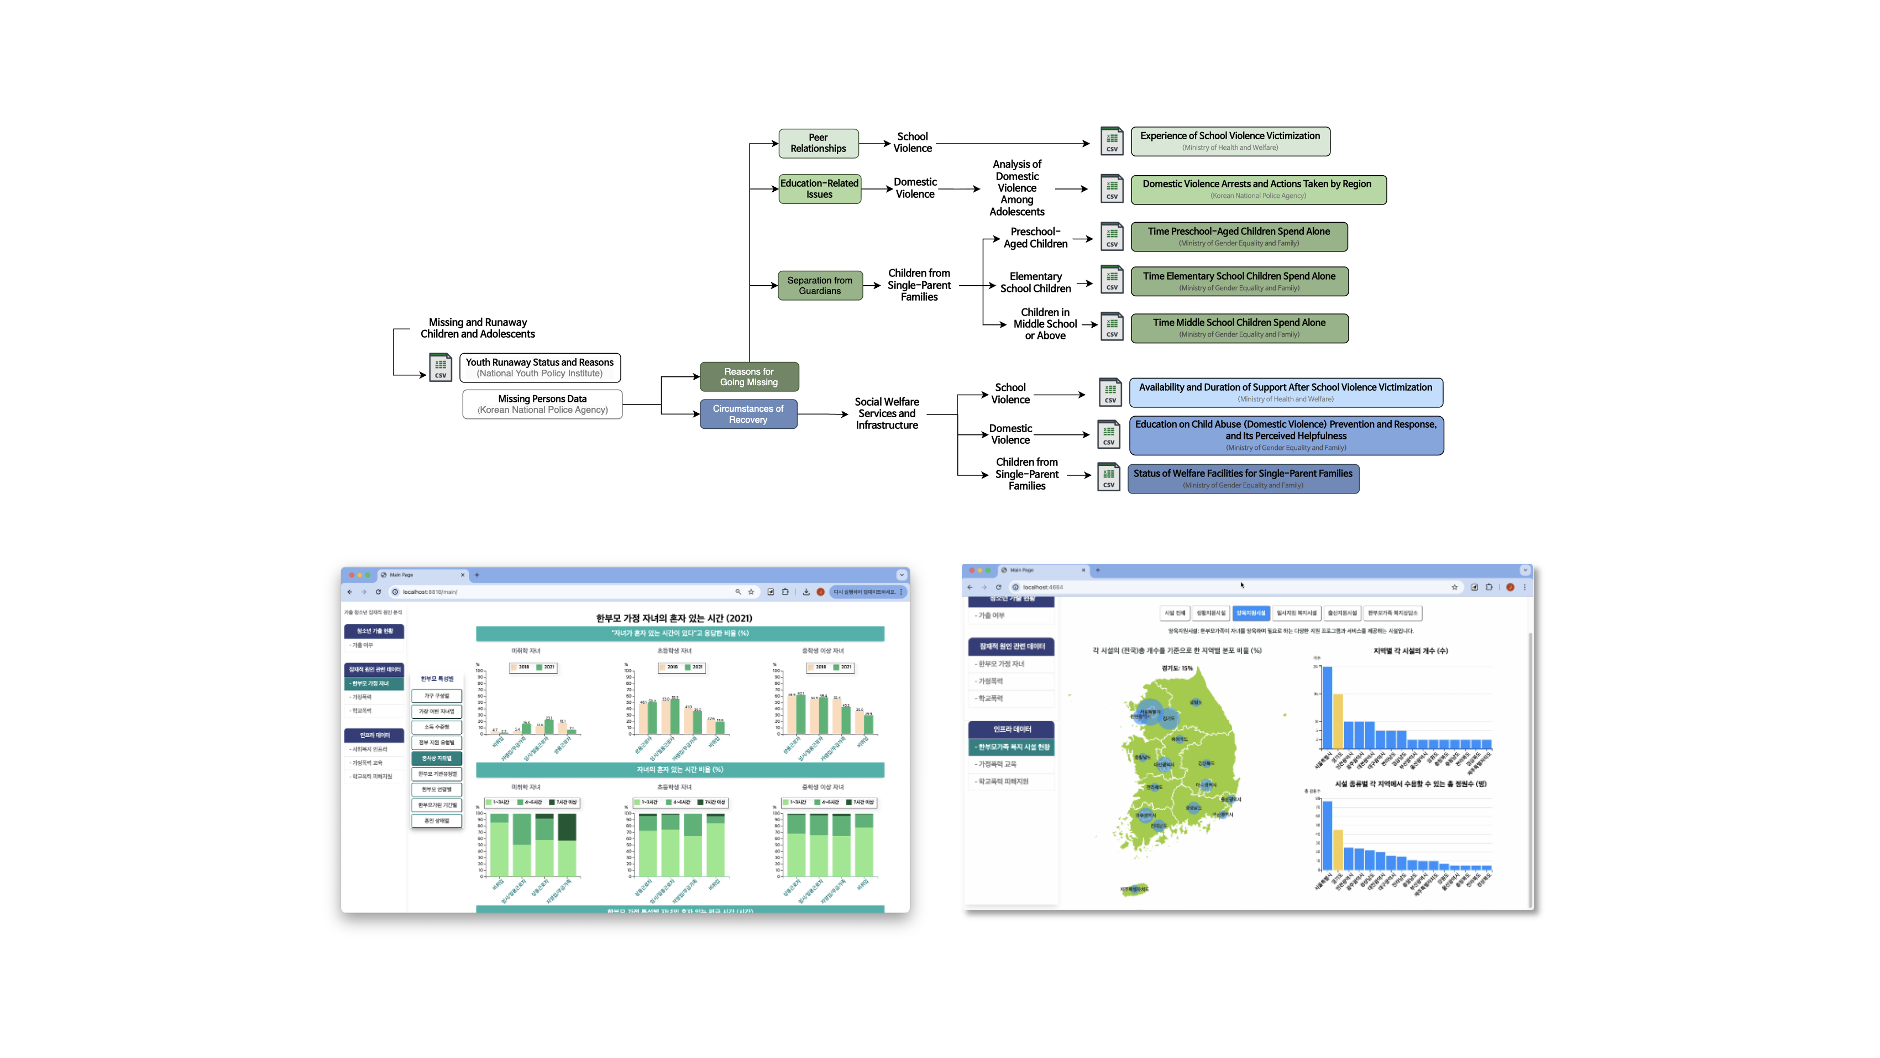
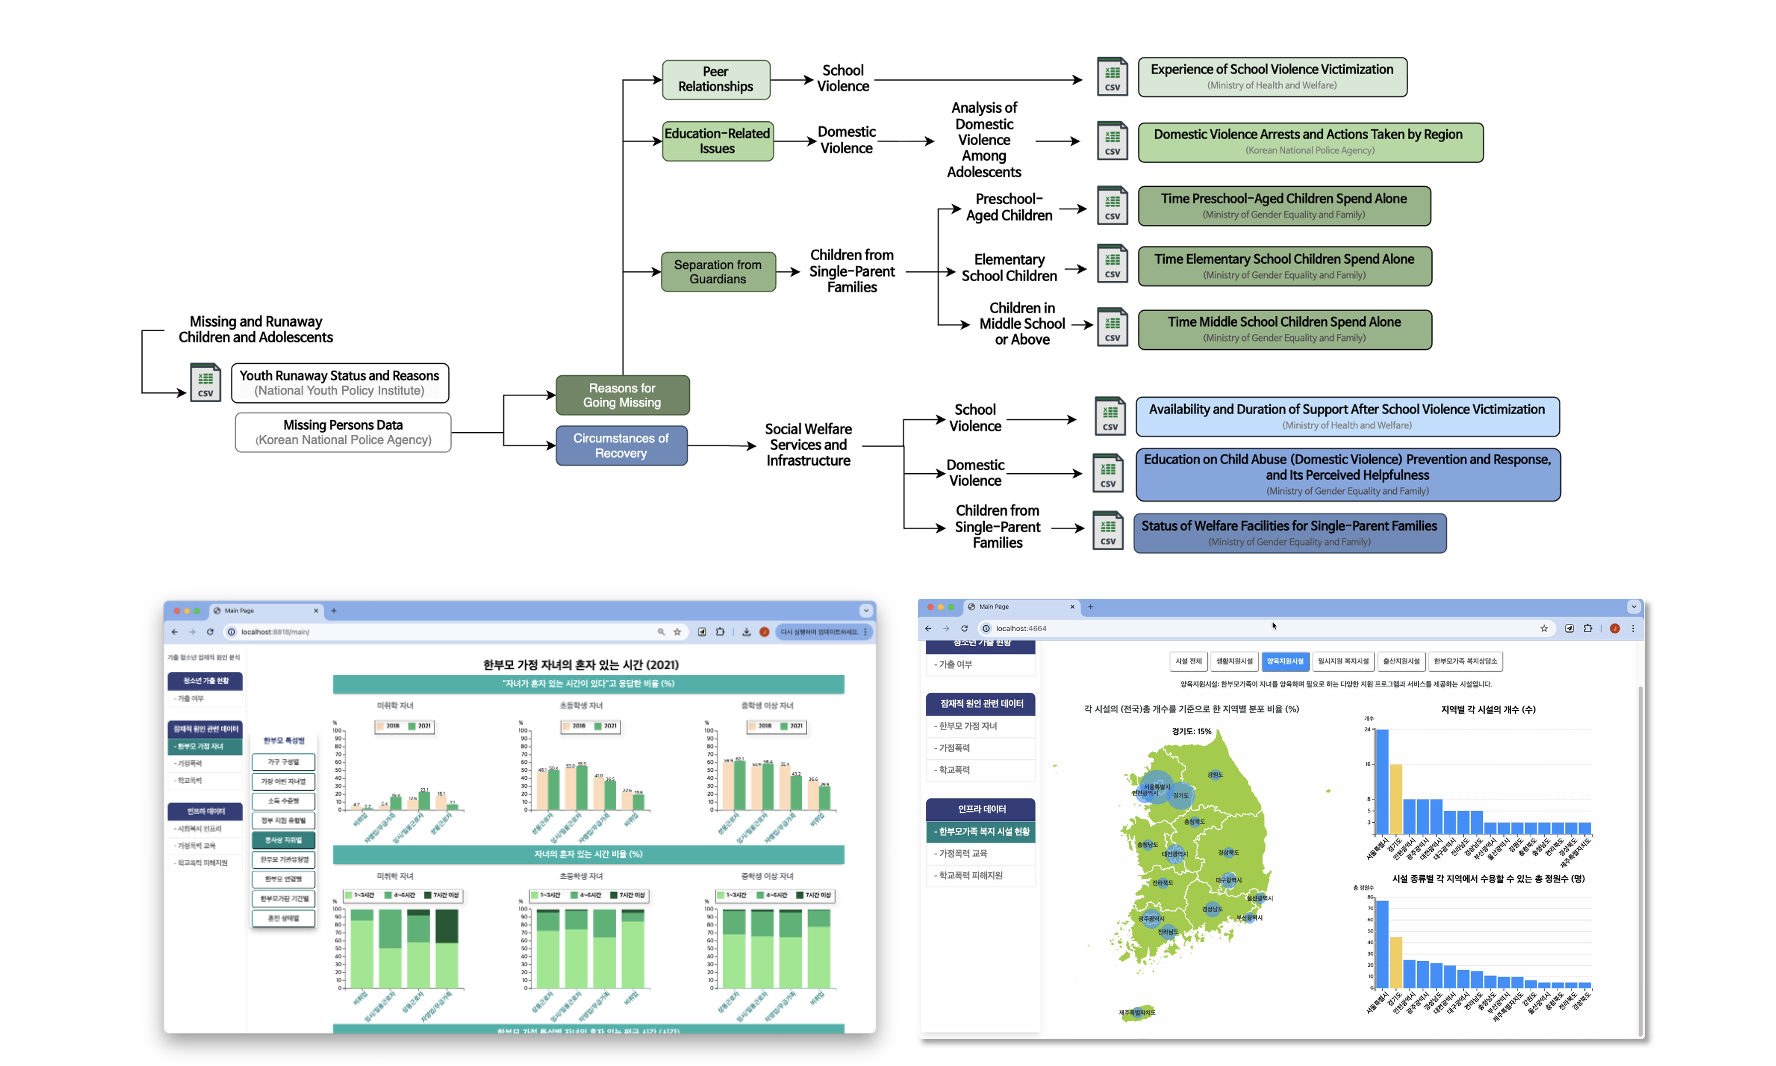
update

Changed region(s): [[0.0619, 0.0312, 0.9291, 0.9981]]

diff --git a/projects_pages/2023-2024BCSC.html b/projects_pages/2023-2024BCSC.html
@@ -8,7 +8,7 @@
   <link rel="preconnect" href="https://fonts.googleapis.com">
   <link rel="preconnect" href="https://fonts.gstatic.com" crossorigin>
   <link href="https://fonts.googleapis.com/css2?family=Roboto+Serif:ital,opsz,wght@0,8..144,300;0,8..144,400;0,8..144,600;0,8..144,700;1,8..144,400&display=swap" rel="stylesheet">
-  <link rel="stylesheet" href="./style.css" />
+  <link rel="stylesheet" href="../style.css" />
   <style>
     body { font-family: 'Roboto Serif', Georgia, serif; color: #2c1a0e; }
     .nav { justify-content: center; }
@@ -21,11 +21,11 @@
     <div class="nav">
       <nav aria-label="Primary">
         <ul class="menu">
-          <li><a href="index.html" data-nav="index">About</a></li>
-          <li><a href="publications.html" data-nav="publications">Publications</a></li>
-          <li><a href="presentations.html" data-nav="presentations">Presentations</a></li>
-          <li><a href="projects.html" data-nav="projects">Projects</a></li>
-          <li><a href="sketches.html" data-nav="sketches">Sketches</a></li>
+          <li><a href="../index.html" data-nav="index">About</a></li>
+          <li><a href="../publications.html" data-nav="publications">Publications</a></li>
+          <li><a href="../presentations.html" data-nav="presentations">Presentations</a></li>
+          <li><a href="../projects.html" data-nav="projects">Projects</a></li>
+          <li><a href="../sketches.html" data-nav="sketches">Sketches</a></li>
         </ul>
       </nav>
     </div>
@@ -33,7 +33,7 @@
 
   <main class="wrap">
 
-    <div class="project-breadcrumb"><a href="projects.html">&larr; All Projects</a></div>
+    <div class="project-breadcrumb"><a href="../projects.html">&larr; All Projects</a></div>
 
     <div class="project-page-head">
       <div class="section-label">Projects</div>
@@ -45,30 +45,81 @@
       </div>
     </div>
 
+    <nav class="subproject-nav" aria-label="Sub-projects">
+      <a href="#psychopy">1. The Effect of Mask Wearing on Face Recognition</a>
+      <a href="#sentience">2. The Effect of Spatial Cues on Iconic Memory</a>
+      <a href="#hackathon">3. Idea Hackathon: Tom & Jerry</a>
+    </nav>
+
     <div class="card project-body">
 
       <p>A year-long study community for students from various majors across the country with a shared interest in brain and cognitive science, built around paper presentations and replication studies.</p>
-
-      <div class="blog-sub">
+<p class="note-box"><strong>Note.</strong> These undergraduate projects were part of my early training in cognitive science, where I learned experimental methods by reading papers, replicating existing paradigms, and designing small-scale studies. They are presented here as learning projects rather than fully developed research studies; in retrospect, their methodological limitations became valuable lessons for designing more rigorous experiments.</p>      <div class="blog-sub" id="psychopy">
         <h4><span class="step-num">1</span>PsychoPy: Visual Experiment Design &amp; Replication</h4>
         <p>Designed and ran a visual experiment using PsychoPy, replicating and extending prior work as <em>"The Effect of Mask Wearing on Face Recognition."</em></p>
+        <p class="embed-label">Background & Abstract</p>
+        <p>This project was conducted as a follow-up to the Introduction to Visual Perception study group, with the goal of applying our knowledge of vision science to experimental design and replicating previous research in a contemporary context.
+        As face masks became widespread during the COVID-19 pandemic, questions emerged about how covering facial features might affect face recognition. Building on research on holistic face processing and <a class="inline-link" href="https://doi.org/10.1038/s41598-022-22772-2" target="_blank" rel="noopener">Castelli et al. (2022)</a>, we investigated whether wearing a face mask during learning and recognition affects face identification performance in Korean participants.</p>
+        <p class="embed-label">Experimental Design</p>
+        <div class="img-row">
+          <figure class="img-frame"><img src="../assets/projects/2023-2024BCSC/project1.png" alt="Interface overview" loading="lazy" class="lightbox-img"></figure>
+          </figure>
+        </div>
+        <p>The experiment was adapted from <a class="inline-link" href="https://doi.org/10.1038/s41598-022-22772-2" target="_blank" rel="noopener">Castelli et al. (2022)</a> and implemented in PsychoPy. Participants learned associations between faces and voices of four Korean male speakers and subsequently completed a matching task.
+        We manipulated whether each face was presented with or without a mask during the learning and matching phases, resulting in four conditions: Mask–Mask, Mask–No Mask, No Mask–Mask, and No Mask–No Mask. Face stimuli were selected from the Chicago Face Database, and Korean AI-generated voices were used as auditory cues.</p>
+        <p class="embed-label">Results & Analysis</p>
+        <p>We first examined recognition accuracy across individual face and voice stimuli and found variability in performance across stimuli. We then compared accuracy across the four mask conditions.
+        Although mean accuracy varied across conditions, no statistically significant effect of mask condition on face identification accuracy was observed (<em>p</em> > .05). The limited number of observations per condition and variability in voice recognition may have reduced the sensitivity of the experiment.</p>
+        <p class="embed-label">Discussion & Takeaways</p>
+        <p>The experiment did not provide evidence that the presence or absence of a mask significantly affected identification accuracy. Participant feedback suggested that some relied heavily on visible features around the eyes, while others reported that masks changed their overall impression of a face.
+        More importantly, this project gave me hands-on experience with the full experimental research process—from literature review and hypothesis development to experimental design, implementation, data collection, and behavioral analysis. It also highlighted how strongly experimental conclusions depend on careful task design and stimulus control. In particular, using voices as identification cues introduced an unintended memory-related factor, demonstrating the importance of isolating the cognitive process of interest.
+        The project also provided practical experience in building behavioral experiments with PsychoPy and motivated further exploration of face recognition using measures such as eye tracking or neuroimaging.</p>
       </div>
 
-      <div class="blog-sub">
-        <h4><span class="step-num">2</span>Reading <em>Sentience</em> &amp; Iconic Memory</h4>
-        <p>Read and discussed <em>Sentience</em> as a group, using thought experiments to explore how the brain, emotion, and decision-making relate to consciousness. This was followed by an independent experiment, <em>Sperling Iconic Memory Paradigm: Experimental Design of Iconic Memory &amp; Spatial Cue</em>, aimed at sharpening experimental-design and programming skills.</p>
+      <div class="blog-sub" id="sentience">
+        <h4><span class="step-num">2</span>The Effect of Spatial Cues on Iconic Memory</h4>
+        <p>Iconic memory is a brief form of visual sensory memory that allows visual information to persist momentarily after a stimulus disappears. Building on <a class="inline-link" href="https://doi.org/10.1037/h0093759" target="_blank" rel="noopener">Sperling’s classic iconic memory paradigm</a>, this project explored how spatial cues influence the retrieval of briefly presented visual information. The project was also designed as a hands-on introduction to experimental programming. After studying visual angle and learning MATLAB and Psychtoolbox, we designed and implemented a pilot behavioral experiment examining the relationship between iconic memory and spatial attention.</p>
+        <p class="embed-label">Experimental Design</p>
+        <div class="img-row">
+          <figure class="img-frame"><img src="../assets/projects/2023-2024BCSC/project2.png" alt="Interface overview" loading="lazy" class="lightbox-img"></figure>
+          </figure>
+        </div>
+        <p>Four participants completed a visual memory task consisting of a 500-ms memory display, a 1,000-ms blank interval, and a response display.
+        During the memory display, six randomly selected letters were presented in a 2 × 3 grid. In the response phase, participants judged whether a target letter had appeared in the preceding display.
+        The experiment manipulated three spatial-cue conditions:</p>
+        <ul>
+          <li>Valid Cue — the cue correctly indicated the target location</li>
+          <li>Invalid Cue — the cue indicated a different location</li>
+          <li>No Cue — no spatial information was provided</li>
+        </ul>
+        <p>Target presence was also manipulated, resulting in six experimental conditions. Each participant completed 540 trials in total.
+        The experiment was implemented using MATLAB R2022a and Psychtoolbox-3.</p>
+        <p class="embed-label">Results</p>
+        <p>Given the small sample size (<em>n</em>= 4), the study was treated as a pilot experiment and analyzed descriptively rather than through inferential statistics.
+        Overall, accuracy was lower for present targets (63.70%) than for absent targets (92.36%). Response times also varied depending on cue availability and target presence. Among present-target trials, the invalid-cue condition showed slightly higher accuracy, although the differences across cue conditions were small.
+        These patterns should not be interpreted as evidence for a reliable spatial-cue effect because of the limited sample size and several constraints in the experimental design.</p>
+        <p class="embed-label">Discussion & Takeaways</p>
+        <p>This pilot study revealed several design issues that would need to be addressed in a larger follow-up experiment. In particular, visual similarity among letter stimuli should be better controlled, and the task should more carefully balance the decision processes required for present and absent targets. The identical structure of some absent-target trials across spatial-cue conditions also introduced unnecessary repetition.
+        More importantly, the project provided hands-on experience in translating a classic cognitive paradigm into a programmable behavioral experiment, from defining experimental conditions and controlling stimulus presentation to collecting and interpreting behavioral data.
+        It also gave me practical experience with MATLAB and Psychtoolbox and demonstrated how pilot data can be used not only to test a hypothesis, but also to identify weaknesses in an experimental design and guide its refinement.</p>
       </div>
 
-      <div class="blog-sub">
+      <div class="blog-sub" id = "hackathon">
         <h4><span class="step-num">3</span>Idea Hackathon: Tom &amp; Jerry</h4>
         <p>As club president, organized the community's "Brain &amp; Cognitive Science Idea Hackathon." Presented a project inspired by the Pied Piper, exploring a cognitive-science approach to guiding rats toward a single location &mdash; awarded 2nd place.</p>
+        <div class="img-row">
+          <figure class="img-frame"><img src="../assets/projects/2023-2024BCSC/project3.png" alt="Interface overview" loading="lazy" class="lightbox-img"></figure>
+          </figure>
+        </div>  
+        <p>Inspired by the Max Planck Institute of Animal Behavior's ICARUS project &mdash; which combines movement-based earth observation with species-distribution modeling &mdash; I designed a protocol for identifying rats' preference and avoidance behaviors, in order to design an aversive stimulus ("Tom") and an attractive stimulus ("Jerry"). Stimuli were placed by drawing on how rats communicate, using ultrasonic vocalizations (USVs) and chemical (odorant) signals, with approach-attempt counts used to gauge preference and learning.</p>
+        <p><strong>Tom (deterrent):</strong> 22kHz-range USVs (typically emitted under anxiety or fear &mdash; e.g., predator scent, social defeat), chemical signals (predator odor, e.g., cat urine), physical deterrence (forced relocation of congregated rats), forward-facing cameras (to estimate mortality/congestion by chemical concentration and train a model for the optimal concentration), and GPS (real-time location relayed to a central control point) &mdash; with deterrents placed along escape routes predicted from sewage-line maps.</p>
+        <p><strong>Jerry (attractant):</strong> 55kHz-range USVs and chemical (odorant) signals.</p>
+        <p class="embed-label">References</p>
+        <p>김성현, 최준기, 김재석, 장아름, 이재호, 차경진, & 이상원. (2018). 빅데이터와 딥러닝을 활용한 동물 감염병 확산 차단. 지능정보연구, 24(4), 137-154. <a class ="in-line-link" href="http://dx.doi.org/10.13088/jiis.2018.24.4.137" target = "blank" rel="noopener">http://dx.doi.org/10.13088/jiis.2018.24.4.137</a></p>
+        <p>최준식. (2022). 심리학 및 행동생물학적 연구에서 동물 로봇의 활용과 전망. 로봇학회 논문지, 17(1), 86-92. <a class ="in-line-link" href="https://doi.org/10.7746/jkros.2022.17.1.086" target = "blank" rel="noopener">https://doi.org/10.7746/jkros.2022.17.1.086</a></p>
+        <p>Turner, L. W., et al. "Monitoring cattle behavior and pasture use with GPS and GIS." Canadian Journal of Animal Science 80.3 (2000): 405-413. <a class ="in-line-link" href="https://doi.org/10.4141/A99-093" target = "blank" rel="noopener">https://doi.org/10.4141/A99-093</a></p>
+        <p>Amir, Alon, et al. "Amygdala signaling during foraging in a hazardous environment." Journal of Neuroscience 35.38 (2015): 12994-13005. <a class ="in-line-link" href="https://doi.org/10.1523/JNEUROSCI.0407-15.2015" target = "blank" rel="noopener">https://doi.org/10.1523/JNEUROSCI.0407-15.2015</a></p>
 
-        <details class="tech-detail-toggle">
-          <summary>Read the technical approach</summary>
-          <p>Inspired by the Max Planck Institute of Animal Behavior's ICARUS project &mdash; which combines movement-based earth observation with species-distribution modeling &mdash; I designed a protocol for identifying rats' preference and avoidance behaviors, in order to design an aversive stimulus ("Tom") and an attractive stimulus ("Jerry"). Stimuli were placed by drawing on how rats communicate, using ultrasonic vocalizations (USVs) and chemical (odorant) signals, with approach-attempt counts used to gauge preference and learning.</p>
-          <p><strong>Tom (deterrent):</strong> 22kHz-range USVs (typically emitted under anxiety or fear &mdash; e.g., predator scent, social defeat), chemical signals (predator odor, e.g., cat urine), physical deterrence (forced relocation of congregated rats), forward-facing cameras (to estimate mortality/congestion by chemical concentration and train a model for the optimal concentration), and GPS (real-time location relayed to a central control point) &mdash; with deterrents placed along escape routes predicted from sewage-line maps.</p>
-          <p><strong>Jerry (attractant):</strong> 55kHz-range USVs and chemical (odorant) signals.</p>
-        </details>
       </div>
 
     </div>
@@ -81,7 +132,7 @@
     <footer aria-label="Footer" style="margin-top: 20px; padding-top: 24px; border-top: 1px solid rgba(44,26,14,0.08); color: #6b4c3b; font-size: 13px; display: flex; justify-content: space-between; flex-wrap: wrap; gap: 8px;">
       <div>&copy; <span id="year"></span> Daun Jung</div>
       <div style="display:flex; gap:10px;">
-        <a href="cv.pdf" target="_blank" rel="noopener" style="color:#6b4c3b;">CV</a>
+        <a href="../cv.pdf" target="_blank" rel="noopener" style="color:#6b4c3b;">CV</a>
         <span>&middot;</span>
         <a href="https://osf.io/fxwbj/" target="_blank" rel="noopener" style="color:#6b4c3b;">OSF</a>
       </div>
@@ -89,6 +140,6 @@
 
   </main>
 
-  <script src="./script.js" defer></script>
+  <script src="../script.js" defer></script>
 </body>
 </html>

diff --git a/projects_pages/2025QuantumLego.html b/projects_pages/2025QuantumLego.html
@@ -51,17 +51,16 @@
       <p>Built on quantum computing education, this project used LEGO bricks to visually demonstrate the core principles and algorithms of quantum computers, aiming to make quantum computing more approachable to a general audience.</p>
       <p>The two foundational concepts &mdash; <em>quantum entanglement</em> and <em>quantum superposition</em> &mdash; were told through the playful metaphor of a pinball machine and a Goldberg machine. A pinball machine (representing superposition) and an observation-driven Goldberg machine (representing entanglement) were mounted back-to-back: two small marbles, representing quantum particles, are dropped on the front while one large marble, representing an observation, is dropped on the back &mdash; all at the same time &mdash; to visually convey how observing one entangled particle instantly determines the state of the other.</p>
 
-      <div class="img-row cols-3">
+      <p class="row-note">Front and back run at the same time.</p>
+      <div class="img-row cols-2">
         <figure class="img-frame"><img src="../assets/projects/2025QuantumLego/seesaw(front).png" alt="Pinball machine, front view" loading="lazy"></figure>
-        <figure class="img-frame"><img src="../assets/projects/2025QuantumLego/back(detail).gif" alt="Goldberg machine, back detail" loading="lazy"></figure>
         <figure class="img-frame"><img src="../assets/projects/2025QuantumLego/principle.gif" alt="Working principle animation" loading="lazy"></figure>
       </div>
       <div class="img-caption" style="display:flex; justify-content:space-around; margin-top:-6px;">
         <span>Pinball Machine (front)</span>
-        <span>Goldberg Machine (back)</span>
-        <span>Principle</span>
+        <span>Applying the principle of a seesaw</span>
       </div>
-      <p class="row-note">Front and back run at the same time.</p>
+      
 
       <div class="slider" data-slider data-autoplay="3200" tabindex="0" aria-label="More build photos">
         <div class="slides">

diff --git a/projects.html b/projects.html
@@ -115,8 +115,7 @@
 
       <a class="proj-card" href="projects_pages/2023-2024BCSC.html" data-tags="undergrad community">
         <div class="proj-thumb">
-          
-          
+          <img src="assets/projects/2023-2024BCSC/thumbnail.png" alt="" loading="lazy" onerror="this.remove();">
         </div>
         <div class="proj-body">
           <div class="proj-title">Brain and Cognitive Science Community</div>
@@ -160,11 +159,10 @@
 
       <a class="proj-card" href="projects_pages/2022KartRider.html" data-tags="undergrad course">
         <div class="proj-thumb">
-          
-          
+          <img src="assets/projects/2022KartRider/thumbnail.png" alt="" loading="lazy" onerror="this.remove();">
         </div>
         <div class="proj-body">
-          <div class="proj-title">Reading KartRider: Information Design in Racing Games</div>
+          <div class="proj-title">Reading Information in a Racing Game: A UX Study of KartRider</div>
           <div class="proj-sub">Course: Research Methods in Cognitive Science &middot; 2022</div>
           <div class="tag-row">
           <span class="tag-pill">Undergrad</span>

diff --git a/style.css b/style.css
@@ -1208,3 +1208,39 @@ footer{
 @media (max-width: 700px){
   .img-row.cols-2, .img-row.cols-3, .img-row.cols-4{ grid-template-columns: 1fr; }
 }
+
+.subproject-nav{
+  display: flex;
+  flex-wrap: wrap;
+  gap: 8px;
+  margin: 4px 0 20px;
+}
+.subproject-nav a{
+  font-size: 12.5px;
+  color: var(--muted);
+  border: 1px solid rgba(92,26,0,0.14);
+  background: rgba(255,255,255,0.55);
+  padding: 6px 12px;
+  border-radius: 999px;
+  text-decoration: none;
+  transition: background 140ms ease, border-color 140ms ease, color 140ms ease;
+}
+.subproject-nav a:hover{
+  background: rgba(232,93,26,0.10);
+  border-color: rgba(232,93,26,0.35);
+  color: var(--text);
+}
+
+.note-box{
+  margin: 20px 0;
+  padding: 14px 18px;
+  border-radius: 12px;
+  background: rgba(92,26,0,0.05);
+  border-left: 3px solid var(--accent);
+  color: #5c1a00;
+  font-size: 13.5px;
+  line-height: 1.7;
+}
+.note-box strong{
+  color: #3d1200;
+}

diff --git a/projects_pages/2022KartRider.html b/projects_pages/2022KartRider.html
@@ -37,7 +37,7 @@
 
     <div class="project-page-head">
       <div class="section-label">Projects</div>
-      <h1>Reading KartRider: Information Design in Racing Games</h1>
+      <h1>Reading Information in a Racing Game: A UX Study of KartRider</h1>
       <p class="muted">Research Methods in Cognitive Science &middot; 2022</p>
       <div class="panel-meta">
         <span class="tag-pill">Undergrad</span>
